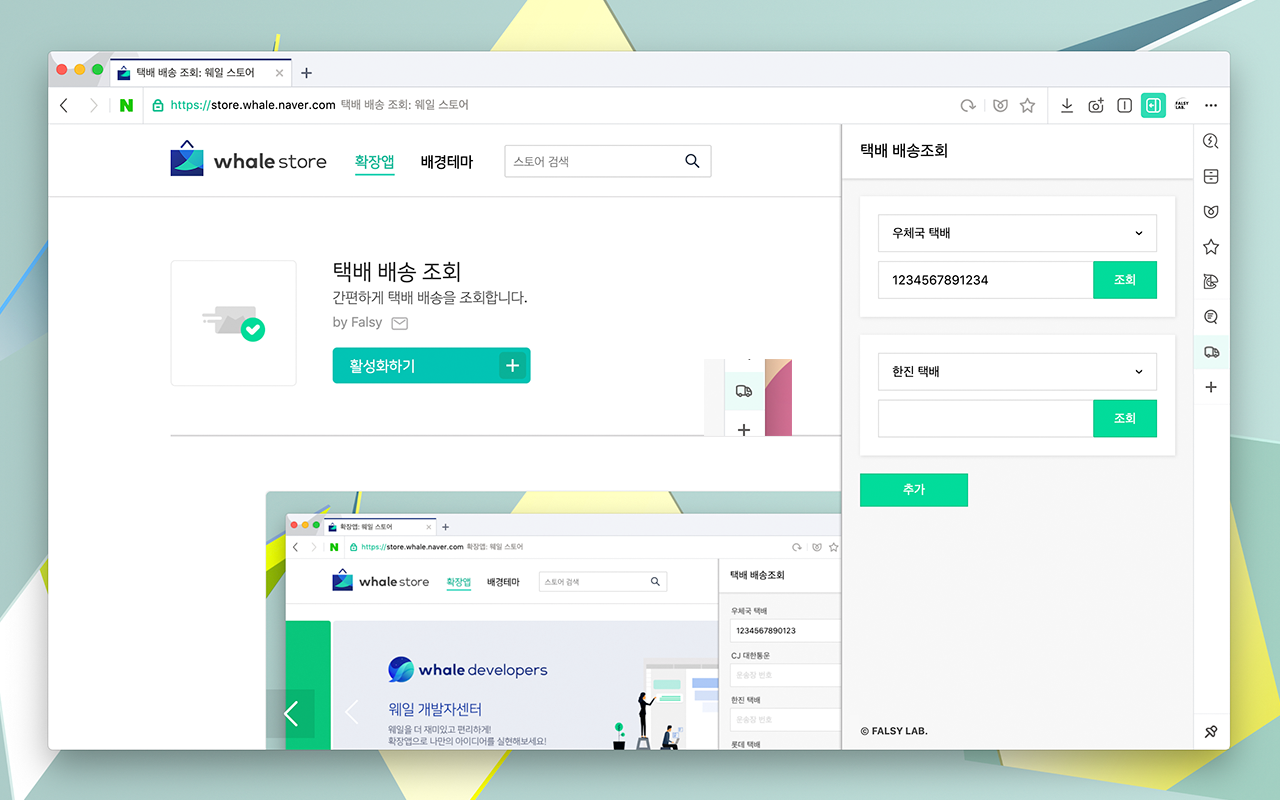
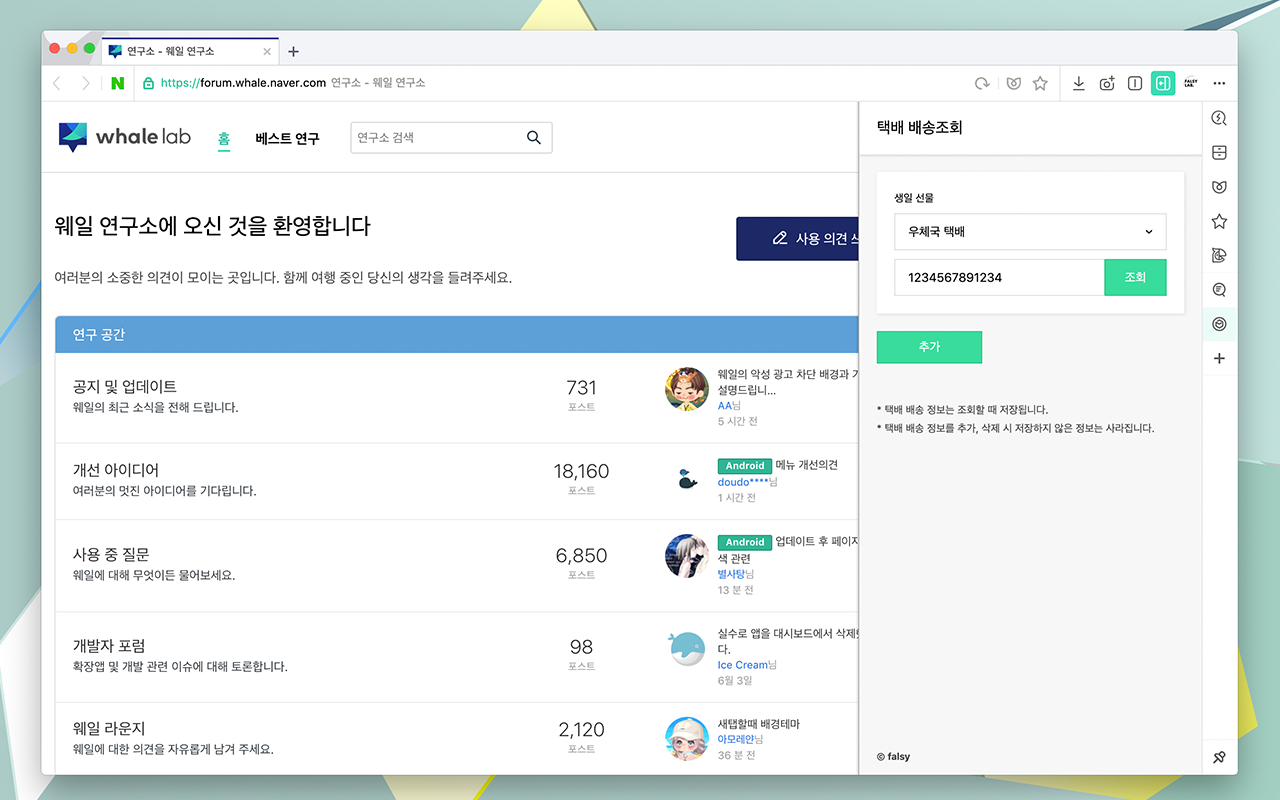
v1.5.0
* 운송장 라벨 기능 추가
* 택배사 선택시 운송장 번호 초기화 되는 문제 수정
* 팁 메세지 추가
* 아이콘 변경

diff --git a/src/index.js b/src/index.js
@@ -14,21 +14,22 @@ class Delivery {
 
   getStorageListData() {
     let deliverydata = WebStorage.get(DELIVERY_DATA);
-    deliverydata = deliverydata && deliverydata.length  ? deliverydata : [ DELIVERY_INIT ];
-
-    WebStorage.set(DELIVERY_DATA, deliverydata);
+        deliverydata = deliverydata && deliverydata.length  ? deliverydata : [ DELIVERY_INIT ];
 
     while(this.deliveryList.firstChild) {
       this.deliveryList.removeChild(this.deliveryList.firstChild);
     }
 
     deliverydata.forEach((delivery, i) => {
+      if(!delivery.hasOwnProperty('label') || delivery.label === '') delivery.label = '라벨';
       this.appendDeliveryListDOM(delivery, i);
     });
+
+    WebStorage.set(DELIVERY_DATA, deliverydata);
   }
 
   appendDeliveryListDOM(deliveryData, i) {
-    const { idx, code } = deliveryData;
+    const { idx, label, code } = deliveryData;
     const container = document.createElement('div');
           container.className = 'delivery-container';
           container.setAttribute('data-d-Index', idx);
@@ -43,10 +44,15 @@ class Delivery {
           delivery.appendChild(arrow);
     const deliveryBox = document.createElement('div');
           deliveryBox.appendChild(delivery);
+    const labelInput = document.createElement('input');
+          labelInput.setAttribute('class', 'delivery-label');
+          labelInput.setAttribute('type', 'text');
+          labelInput.setAttribute('value', label);
     const selectBox = document.createElement('ul');
           selectBox.className = 'select-box-list';
           selectBox.style.display = 'none';
     const input = document.createElement('input');
+          input.setAttribute('class', 'delivery-number');
           input.setAttribute('type', 'text');
           input.setAttribute('value', code);
     const buttonText = document.createTextNode('조회');
@@ -69,6 +75,7 @@ class Delivery {
     }
 
     deliveryBox.appendChild(selectBox);
+    container.appendChild(labelInput);
     container.appendChild(deliveryBox);
     container.appendChild(input);
     container.appendChild(button);
@@ -89,9 +96,12 @@ class Delivery {
         const dIndex = container.dataset.dIndex;
         const apiTarget = DELIVERY_LIST[dIndex].name;
         const apiUrl = DELIVERY_LIST[dIndex].api;
-        const postNumber = e.target.previousElementSibling.value;
+        const postLabel = container.children[0].value;
+        const postNumber = container.children[2].value;
 
+        deliveryList[cIndex].idx = dIndex;
         deliveryList[cIndex].code = postNumber;
+        deliveryList[cIndex].label = postLabel;
         WebStorage.set(DELIVERY_DATA, deliveryList);
 
         if(apiTarget === '대신 택배') {
@@ -135,15 +145,13 @@ class Delivery {
       }
 
       if(tName === 'choice-delivery') {
-        const deliveryList = WebStorage.get(DELIVERY_DATA);
         const index = e.target.dataset.index;
+        const deliveryName = e.target.innerText;
         const deliveryBox = e.target.parentElement.previousSibling.parentElement.parentElement;
-        const cIndex = deliveryBox.dataset.cIndex;
+        const deliveryElement = e.target.parentElement.previousSibling;
 
         deliveryBox.dataset.dIndex = index;
-        deliveryList[cIndex].idx = index;
-        WebStorage.set(DELIVERY_DATA, deliveryList);
-        this.getStorageListData();
+        deliveryElement.innerHTML = deliveryName + ' <span>›</span>';
       }
 
     }, {

diff --git a/src/constants/index.js b/src/constants/index.js
@@ -2,39 +2,51 @@ export const POST_NUMBER = 'POST_NUMBER';
 export const DELIVERY_INIT = { idx : 0, code: '' };
 export const DELIVERY_DATA = 'DELIVERY_DATA';
 export const DELIVERY_LIST = [{
+    label: '',
     name: '우체국 택배',
     api: 'https://service.epost.go.kr/trace.RetrieveDomRigiTraceList.comm?displayHeader=N&sid1='
   }, {
+    label: '',
     name: 'CJ 대한통운',
     api: 'http://nplus.doortodoor.co.kr/web/detail.jsp?slipno='
   }, {
+    label: '',
     name: '한진 택배',
     api: 'http://www.hanjin.co.kr/Delivery_html/inquiry/result_waybill.jsp?wbl_num='
   }, {
+    label: '',
     name: '롯데 택배',
     api: 'https://www.lotteglogis.com/open/tracking?invno='
   }, {
+    label: '',
     name: '로젠 택배',
     api: 'https://www.ilogen.com/web/personal/trace/'
   }, {
+    label: '',
     name: 'KGB 택배',
     api: 'http://www.kgbps.com/delivery/delivery_result.jsp?item_no='
   }, {
+    label: '',
     name: 'CVSnet 편의점 택배',
     api: 'http://www.cvsnet.co.kr/reservation-inquiry/delivery/index.do?dlvry_type=domestic&invoice_no='
   }, {
+    label: '',
     name: 'CU 편의점 택배',
     api: 'https://www.cupost.co.kr/postbox/delivery/localResult.cupost?invoice_no='
   }, {
+    label: '',
     name: '경동 택배',
     api: 'http://kdexp.com/basicNewDelivery.kd?barcode='
   }, {
+    label: '',
     name: '대신 택배',
     api: 'http://home.daesinlogistics.co.kr/daesin/jsp/d_freight_chase/d_general_process2.jsp'
   }, {
+    label: '',
     name: '일양로지스',
     api: 'http://www.ilyanglogis.com/functionality/card_form_waybill.asp?hawb_no='
   }, {
+    label: '',
     name: '국제우편(EMS)',
     api: 'https://service.epost.go.kr/trace.RetrieveEmsRigiTraceList.comm?displayHeader=N&POST_CODE='
   }];

diff --git a/src/styles/main.css b/src/styles/main.css
@@ -13,7 +13,7 @@ body {
 }
 
 #wrap {
-	/*padding: 5px 20px;*/
+	padding-bottom: 60px;
 }
 
 h1 {
@@ -87,13 +87,24 @@ ul li {
 	padding: 0 15px;
 	border-bottom: 1px solid #ddd;
 	cursor: pointer;
+	font-size: 12px;
 }
 
 ul li:hover {
 	background: #fff;
 }
 
-#delivery-list-container input {
+#delivery-list-container .delivery-label {
+	line-height: 18px;
+	margin: 0 0 8px;
+	width: 240px;
+	font-size: 12px;
+	padding: 0;
+	border: 0;
+	outline: none;
+}
+
+#delivery-list-container .delivery-number {
   line-height: 40px;
   width: 240px;
   margin: 0;
@@ -149,6 +160,16 @@ ul li:hover {
 	background: #00dc9b;
 	border: 1px solid #05c38b;
 	cursor: pointer;
+}
+
+#tip-message {
+	padding: 0 20px;
+	font-size: 12px;
+	color: #444;
+}
+
+#tip-message p {
+	margin: 5px 0;
 }
 
 footer {

diff --git a/index.html b/index.html
@@ -12,6 +12,10 @@
       <section id="add-delivery-section">
         <button class="add-delivery">추가</button>
       </section>
+      <section id="tip-message">
+        <p>* 택배 배송 정보는 조회할 때 저장됩니다.</p>
+        <p>* 택배 배송 정보를 추가, 삭제 시 저장하지 않은 정보는 사라집니다.</p>
+      </section>
       <footer>
         &copy; <a href="https://falsy.me" target="_blank">falsy</a>
       </footer>

diff --git a/changelog.md b/changelog.md
@@ -1,7 +1,14 @@
-## v.1.4.0
+## v1.5.0
+### 2019-07-11
+* 운송장 라벨 기능 추가
+* 택배사 선택시 운송장 번호 초기화 되는 문제 수정
+* 팁 메세지 추가
+* 아이콘 변경
+
+## v1.4.0
 ### 2019-05-26
 * 국제 우편(EMS) 추가
-* 아이콘 수정
+* 아이콘 변경
 
 ## v1.3.2
 ### 2019-05-13
